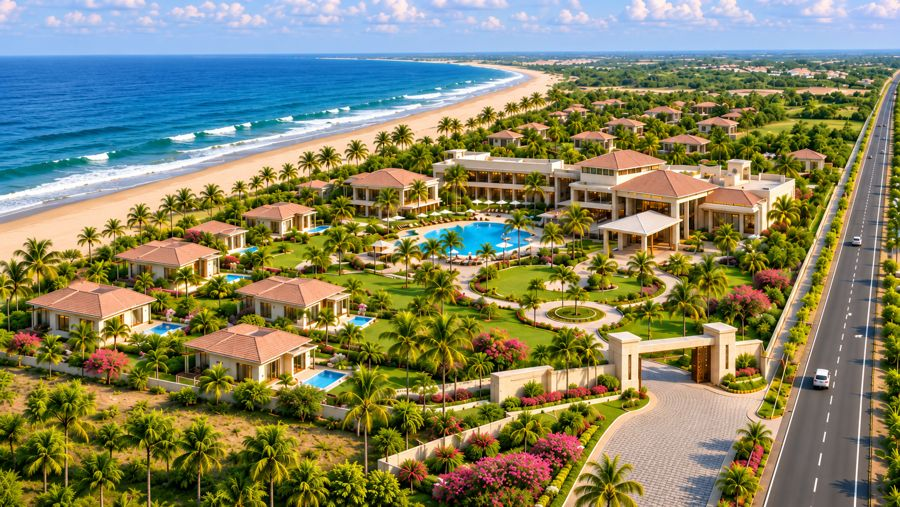
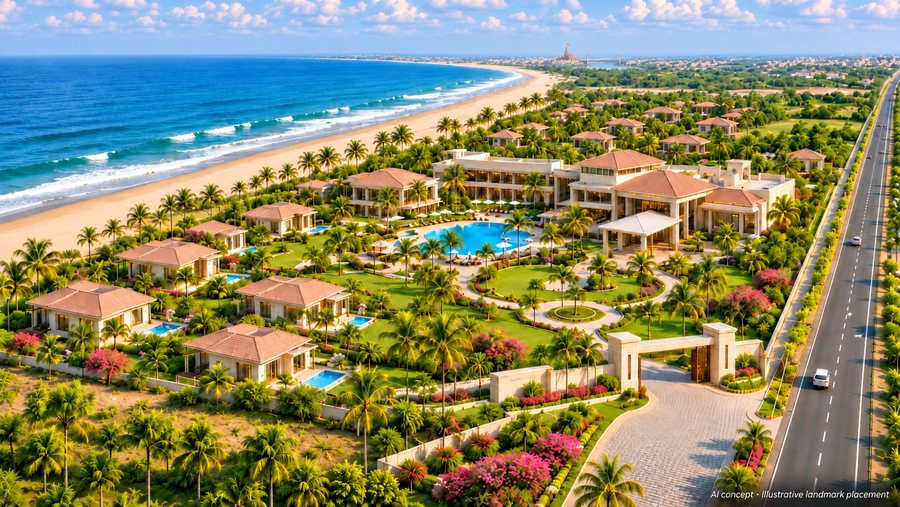
Use new resort photo with Dwarka landmark, shown uncropped

Changed region(s): [[0.0, 0.0888, 1.0, 1.0], [0.1867, 0.1479, 0.2178, 0.1775]]

diff --git a/index.html b/index.html
@@ -52,7 +52,7 @@
   .hero-actions{margin:0 0 28px}
 
   .figure{position:relative; margin:0; max-width:1240px; margin-inline:auto}
-  .figure img{display:block; width:100%; height:auto; aspect-ratio:1672/941; object-fit:cover; background:var(--navy-2)}
+  .figure img{display:block; width:100%; height:auto; aspect-ratio:1672/941; object-fit:contain; background:var(--navy-2)}
   .figure figcaption{background:var(--navy-2); color:#c9d2e3; font-size:13px; padding:10px 16px; text-align:center; border-top:2px solid var(--gold)}
   .figure .badge{position:absolute; left:12px; top:12px; background:rgba(11,26,54,.86); color:#fff;
     font:700 11px/1.2 var(--head); letter-spacing:.1em; padding:7px 10px; border-radius:4px; text-transform:uppercase}
